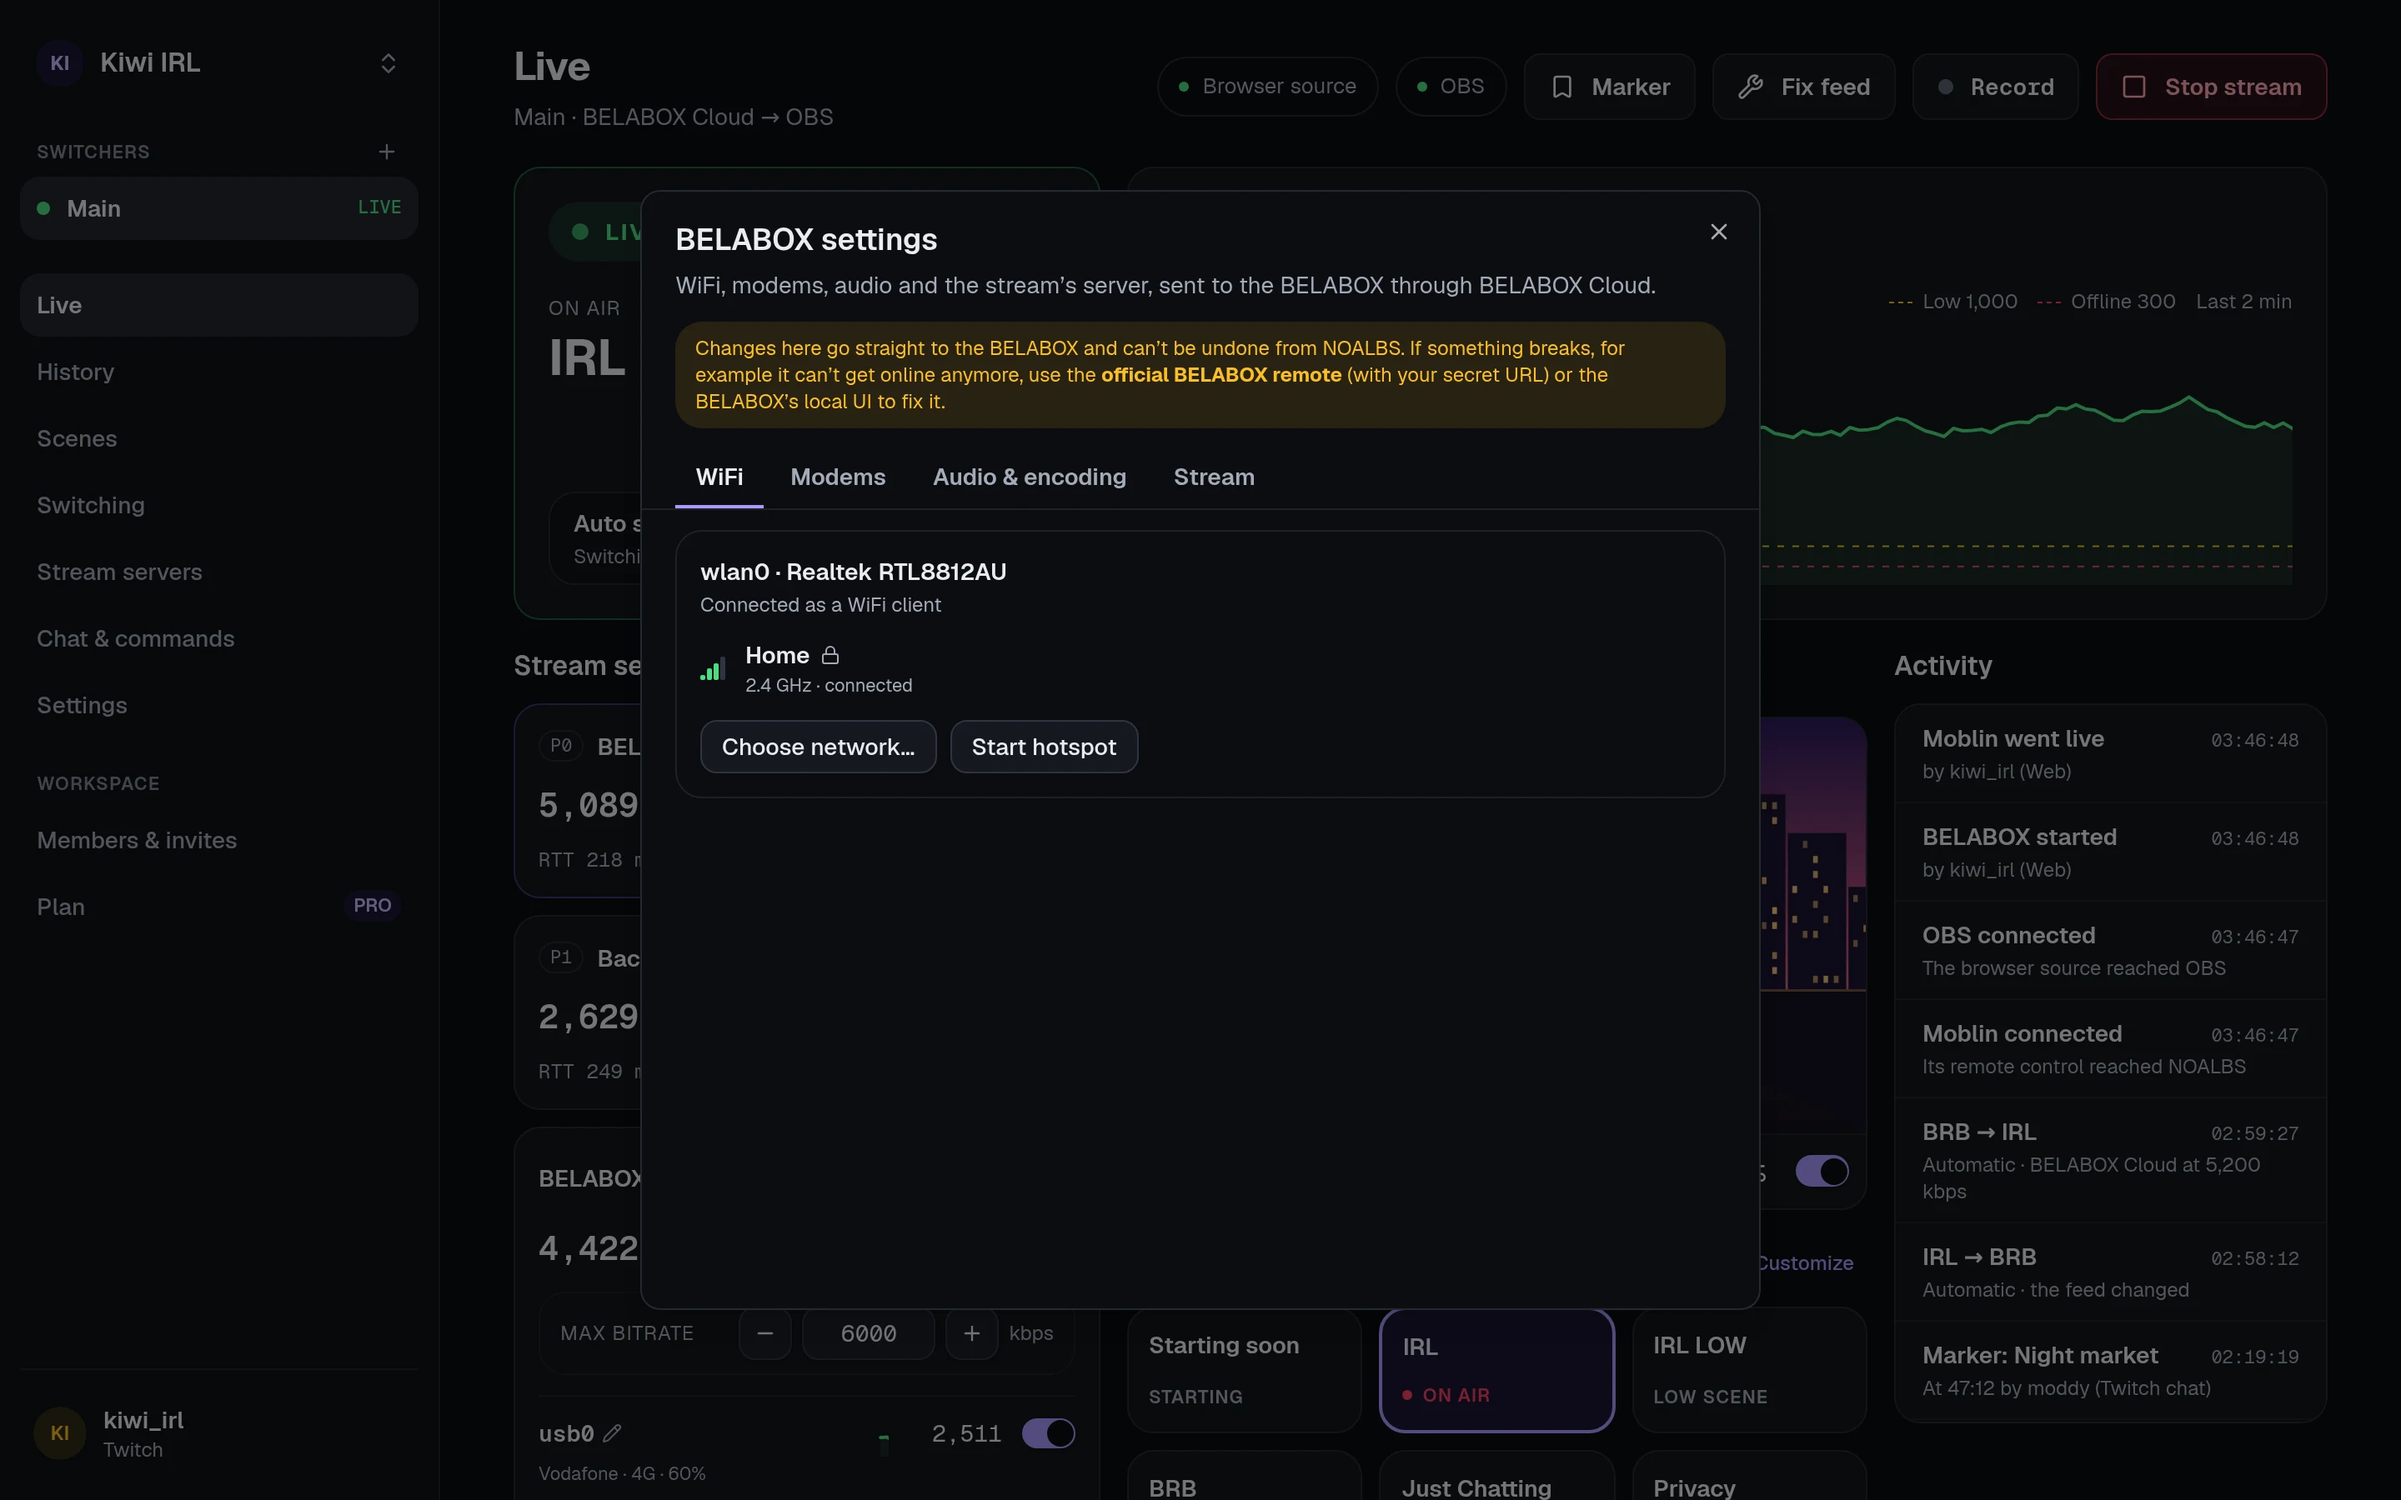
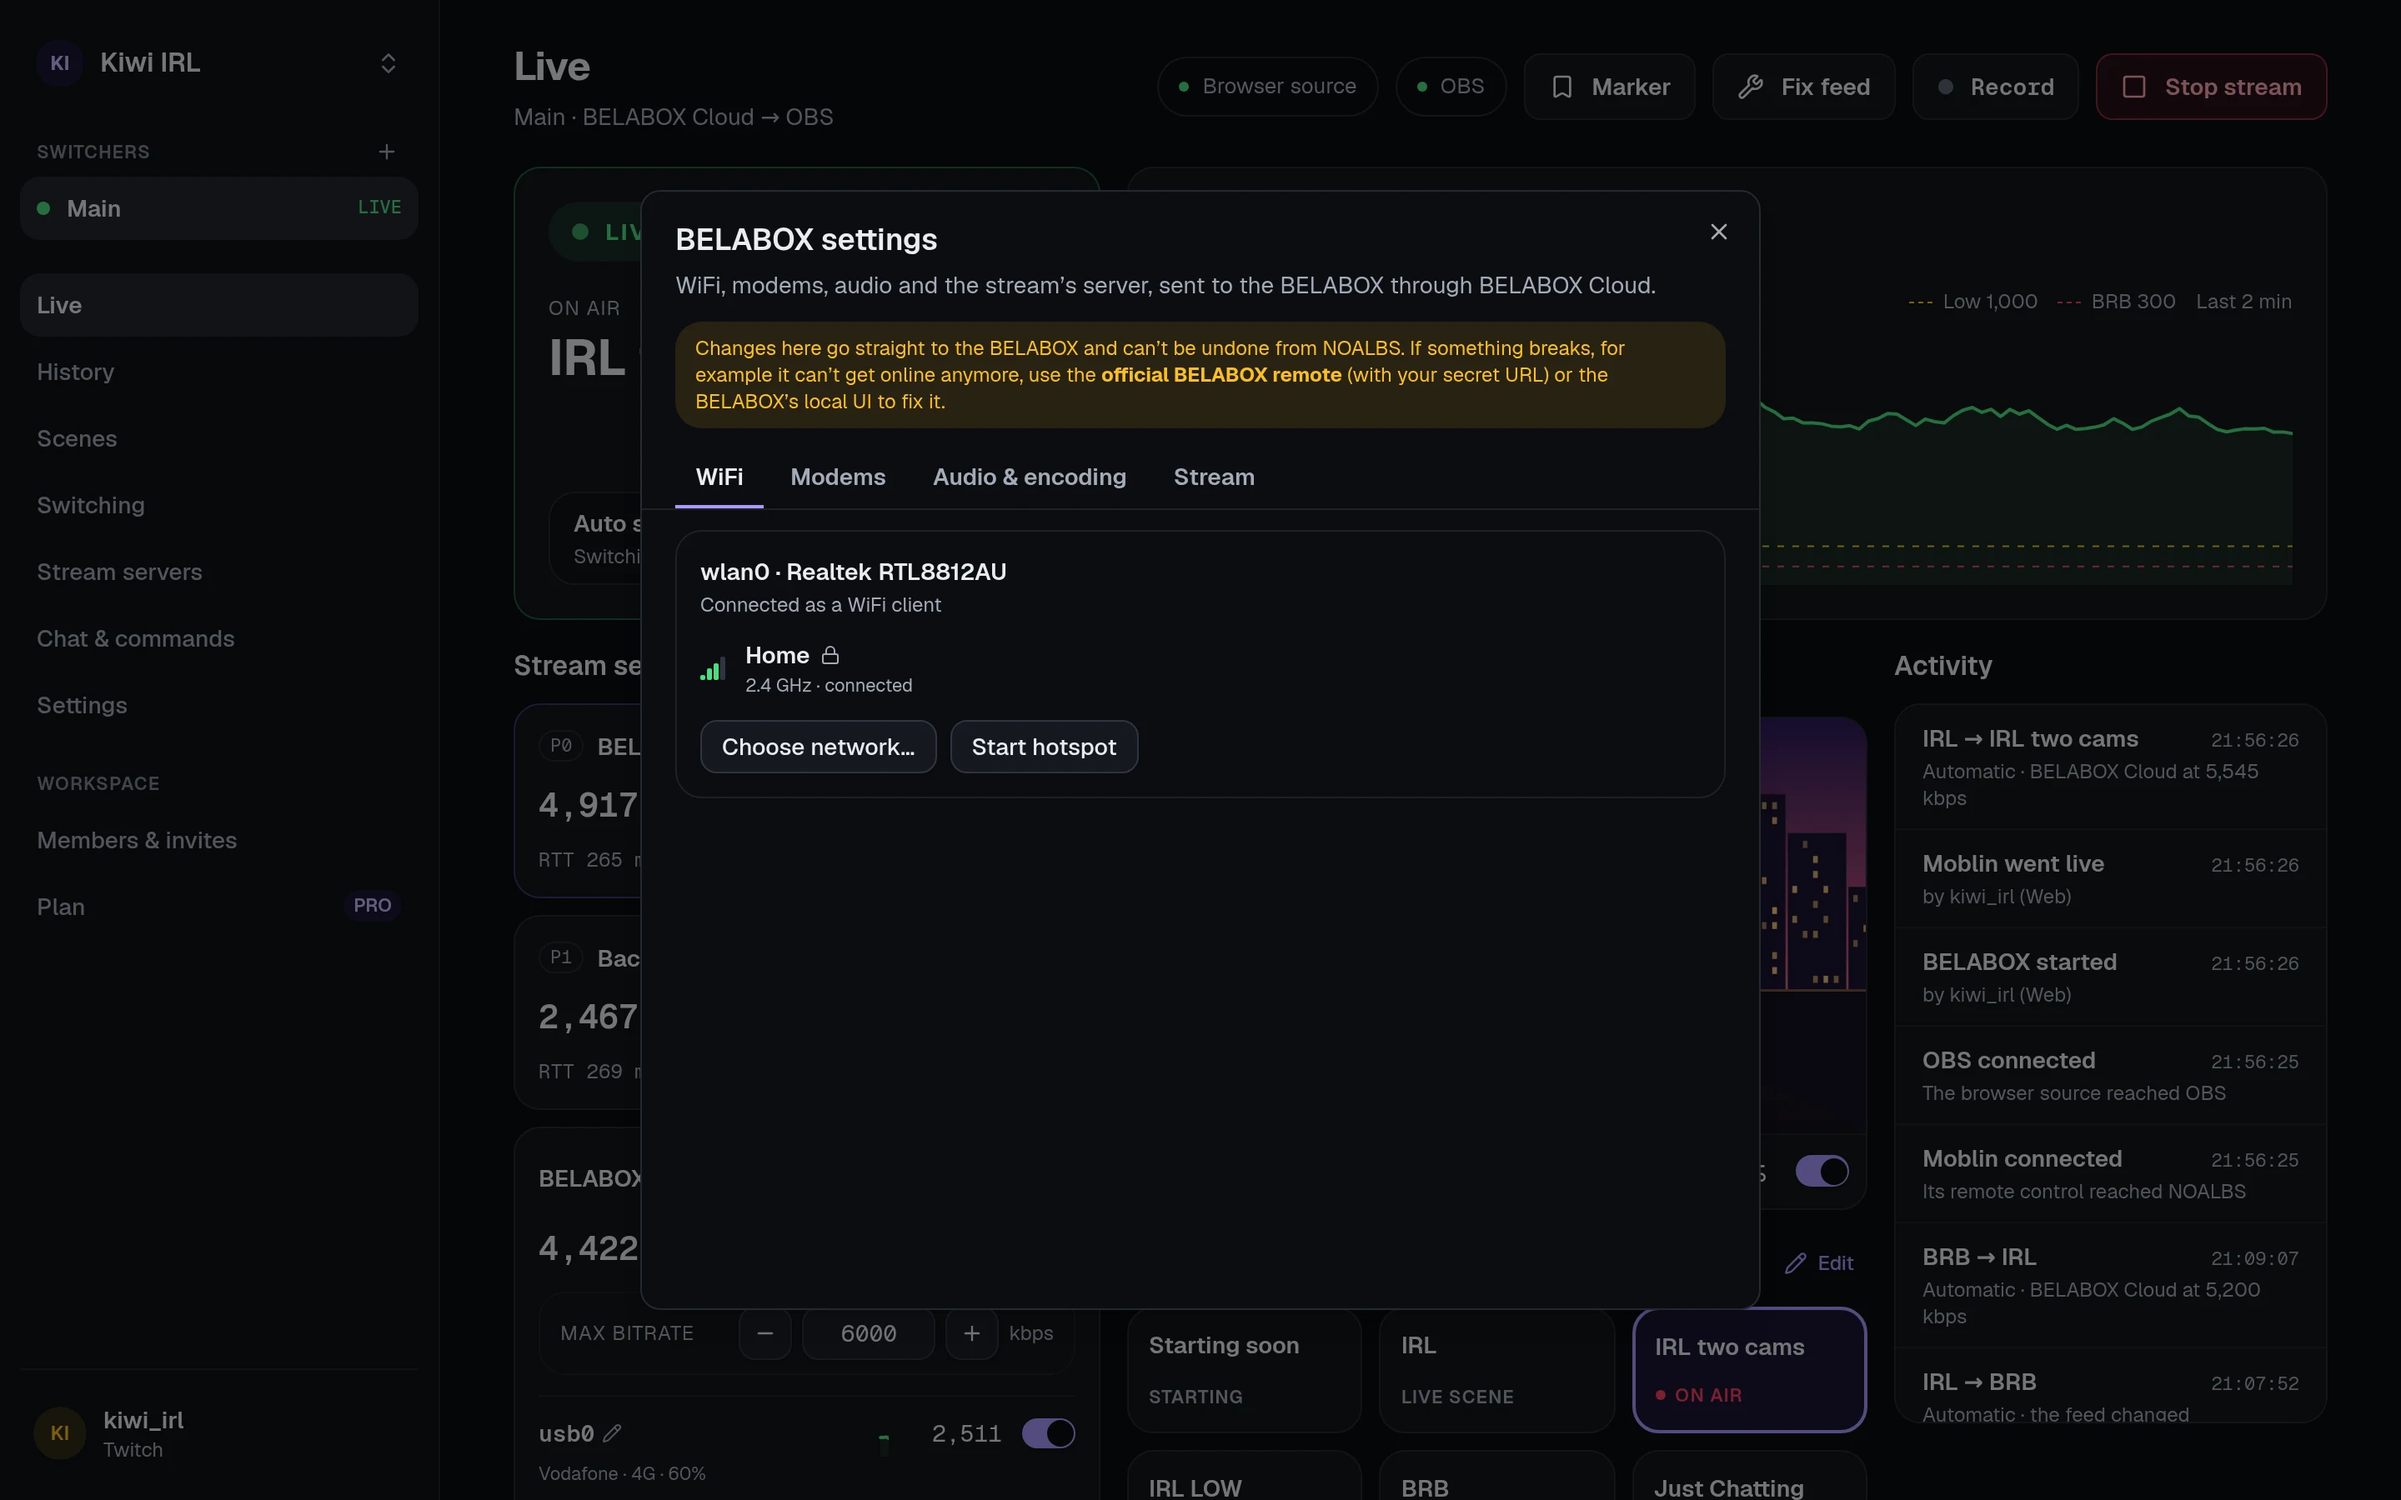
Document server combinations
- Scenes guide: a Server combinations section (when one is used, order,
  LIVE/LOW, Server's scene, BRB, the hold, in use, removal, the limit),
  and combination scenes in "Which scenes NOALBS switches away from".
  The page is now .mdx for the dialog's image
- Stream servers guide: points to combinations from Scene overrides
- Screenshots: the seed adds a BELABOX Cloud + Backup SRT combination with
  a new "IRL two cams" scene in the fake OBS. Both servers are live all
  along, so that scene is on air in the Live shots. New scene-combination
  shot of the edit dialog; all shots but setup retaken
- run.mjs: OBS_PORT moves the fake OBS off 4455, to run with OBS open

Claude-Session: https://claude.ai/code/session_01G5gw1K3QxcsGZHxdYVt67c

diff --git a/scripts/screenshots/README.md b/scripts/screenshots/README.md
@@ -20,18 +20,20 @@ It needs:
 - Docker (it starts its own Postgres 18 and NATS),
 - Chrome or Chromium (`CHROME` overrides the path),
 - `pnpm install` here (Playwright and `ws`),
-- these ports free: 4455 (close OBS), 5190, 11100, 12100, 14222, 15432, 18200, 18300.
+- these ports free: 4455 (close OBS, or set `OBS_PORT` to another port; the `setup` shot then
+  shows that port, so leave it out), 5190, 11100, 12100, 14222, 15432, 18200, 18300.
 
 ## What it does
 
 1. Builds `api`, `obs-link`, `db-migrator` and the `fake_belabox` / `fake_moblin` examples, then
    starts a throwaway stack on its own ports: Postgres and NATS in Docker, the API (dev login on,
    private stats URLs allowed), obs-link and the dashboard's Vite server.
-2. Starts a fake OBS (`fake-obs.mjs`) on 4455 with seven scenes, nested sources, audio and preview
+2. Starts a fake OBS (`fake-obs.mjs`) on 4455 with eight scenes, nested sources, audio and preview
    frames drawn by `frames.mjs`, and a stats server for two stream servers with a slowly moving
    bitrate.
 3. Fills it through the API (`seed.mjs`): the workspace "Kiwi IRL" on Pro, the switcher "Main", two
-   stream servers, scenes, triggers, BELABOX, Moblin, two teammates, and in the database a linked
+   stream servers, scenes, a server combination of both servers (so its "IRL two cams" scene is on
+   air), triggers, BELABOX, Moblin, two teammates, and in the database a linked
    Twitch channel, the shared bot and Twitch accounts.
 4. Opens the real browser source in headless Chrome, which connects the fake OBS, and starts the
    fake Moblin phone. Starts BELABOX and Moblin streaming.

diff --git a/src/content/docs/guides/stream-servers.md b/src/content/docs/guides/stream-servers.md
@@ -54,6 +54,10 @@ that server is the one in use. For example: a different overlay that says "backu
 
 When there's no feed at all, the BRB scene of the server that was last in use is shown.
 
+For other scenes while several servers are live at once, say a two-camera layout, see
+[server combinations](/guides/scenes/#server-combinations). Removing a server also removes the
+combinations it's in.
+
 ## How many
 
 Your plan sets how many stream servers a switcher can have. After a downgrade, servers over the
